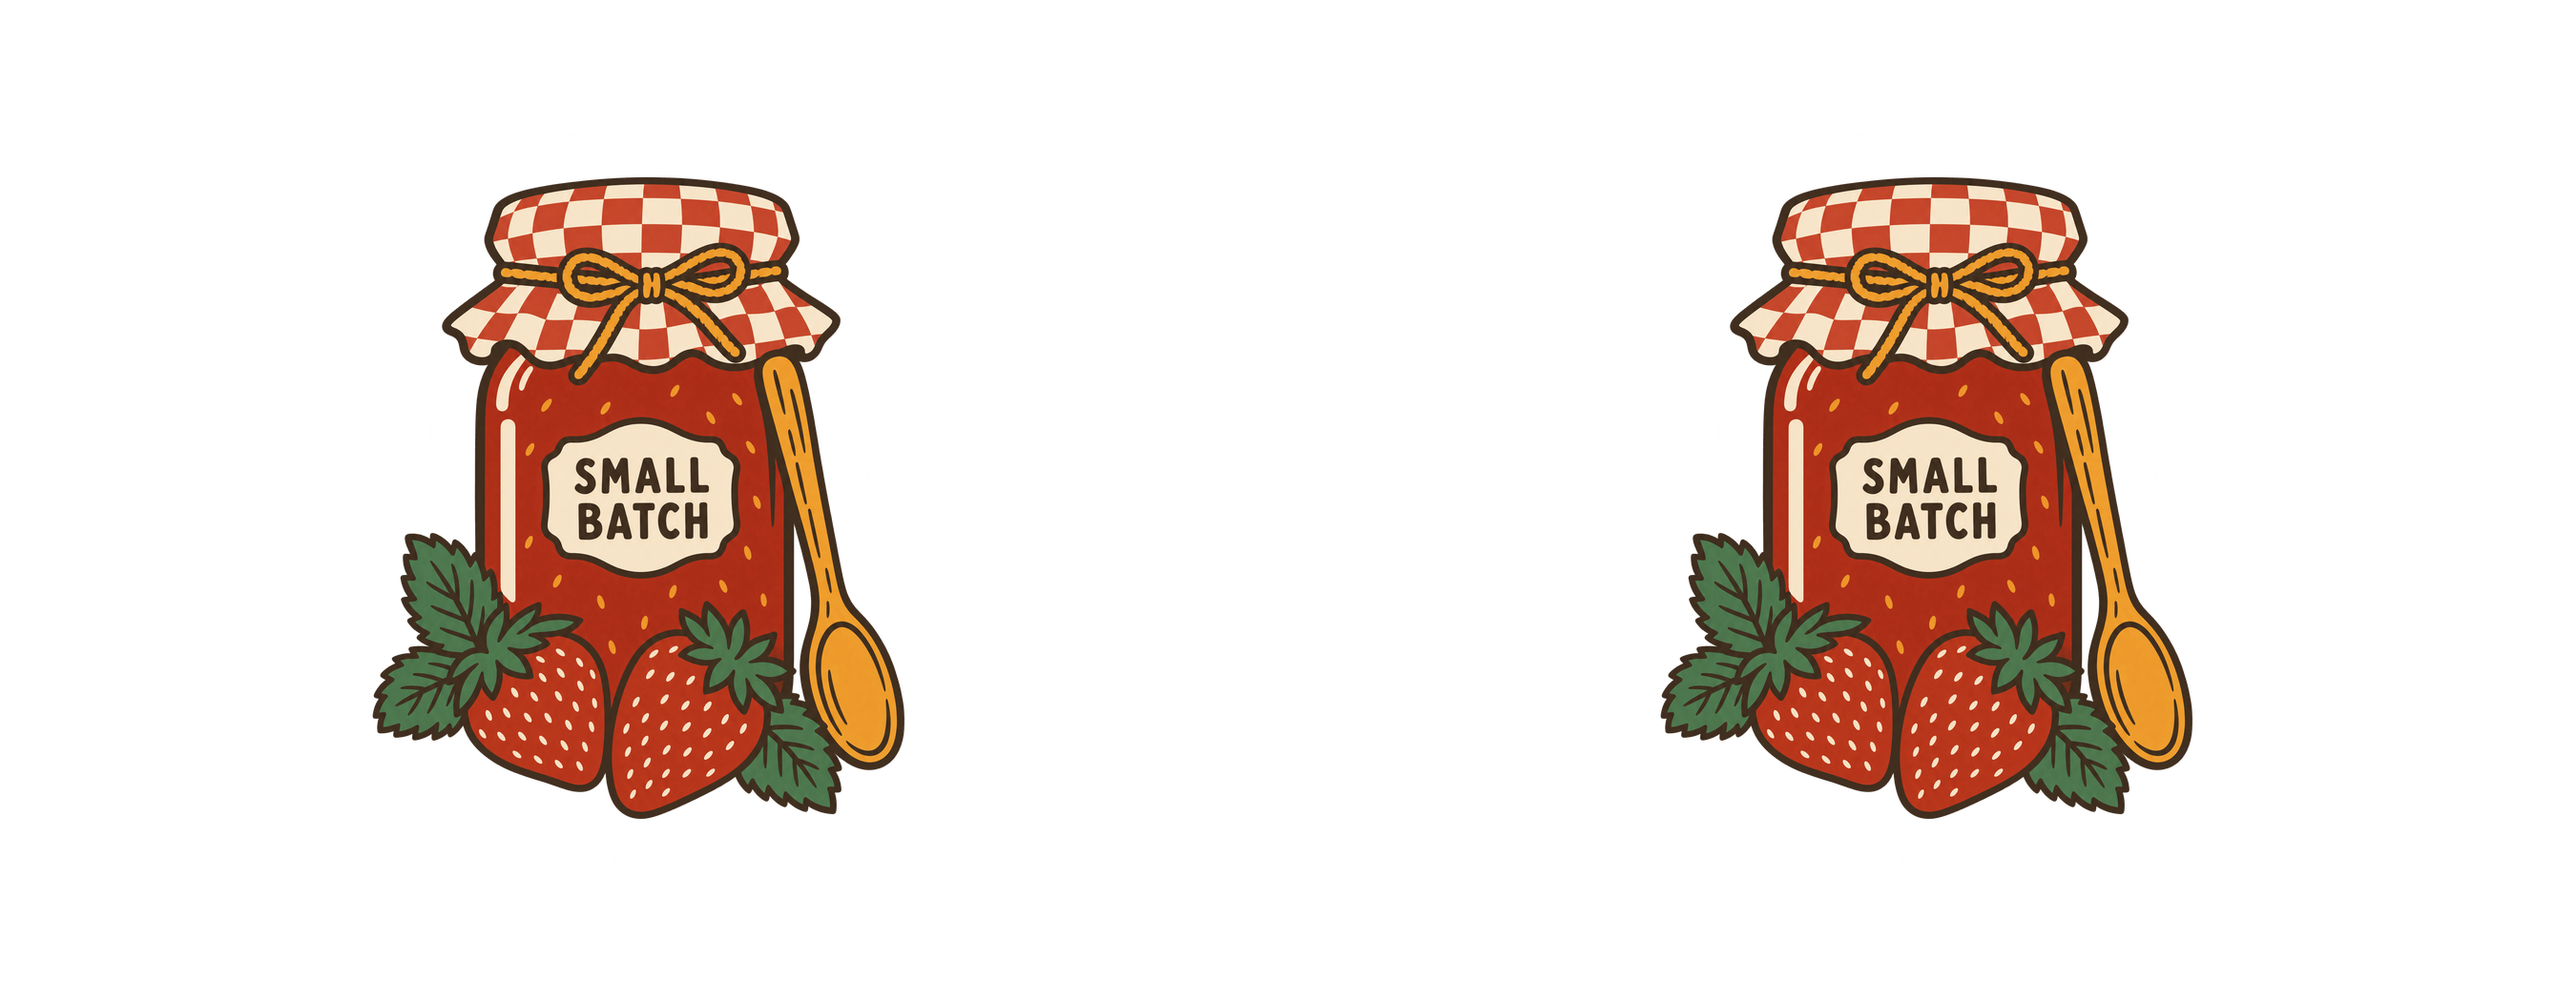
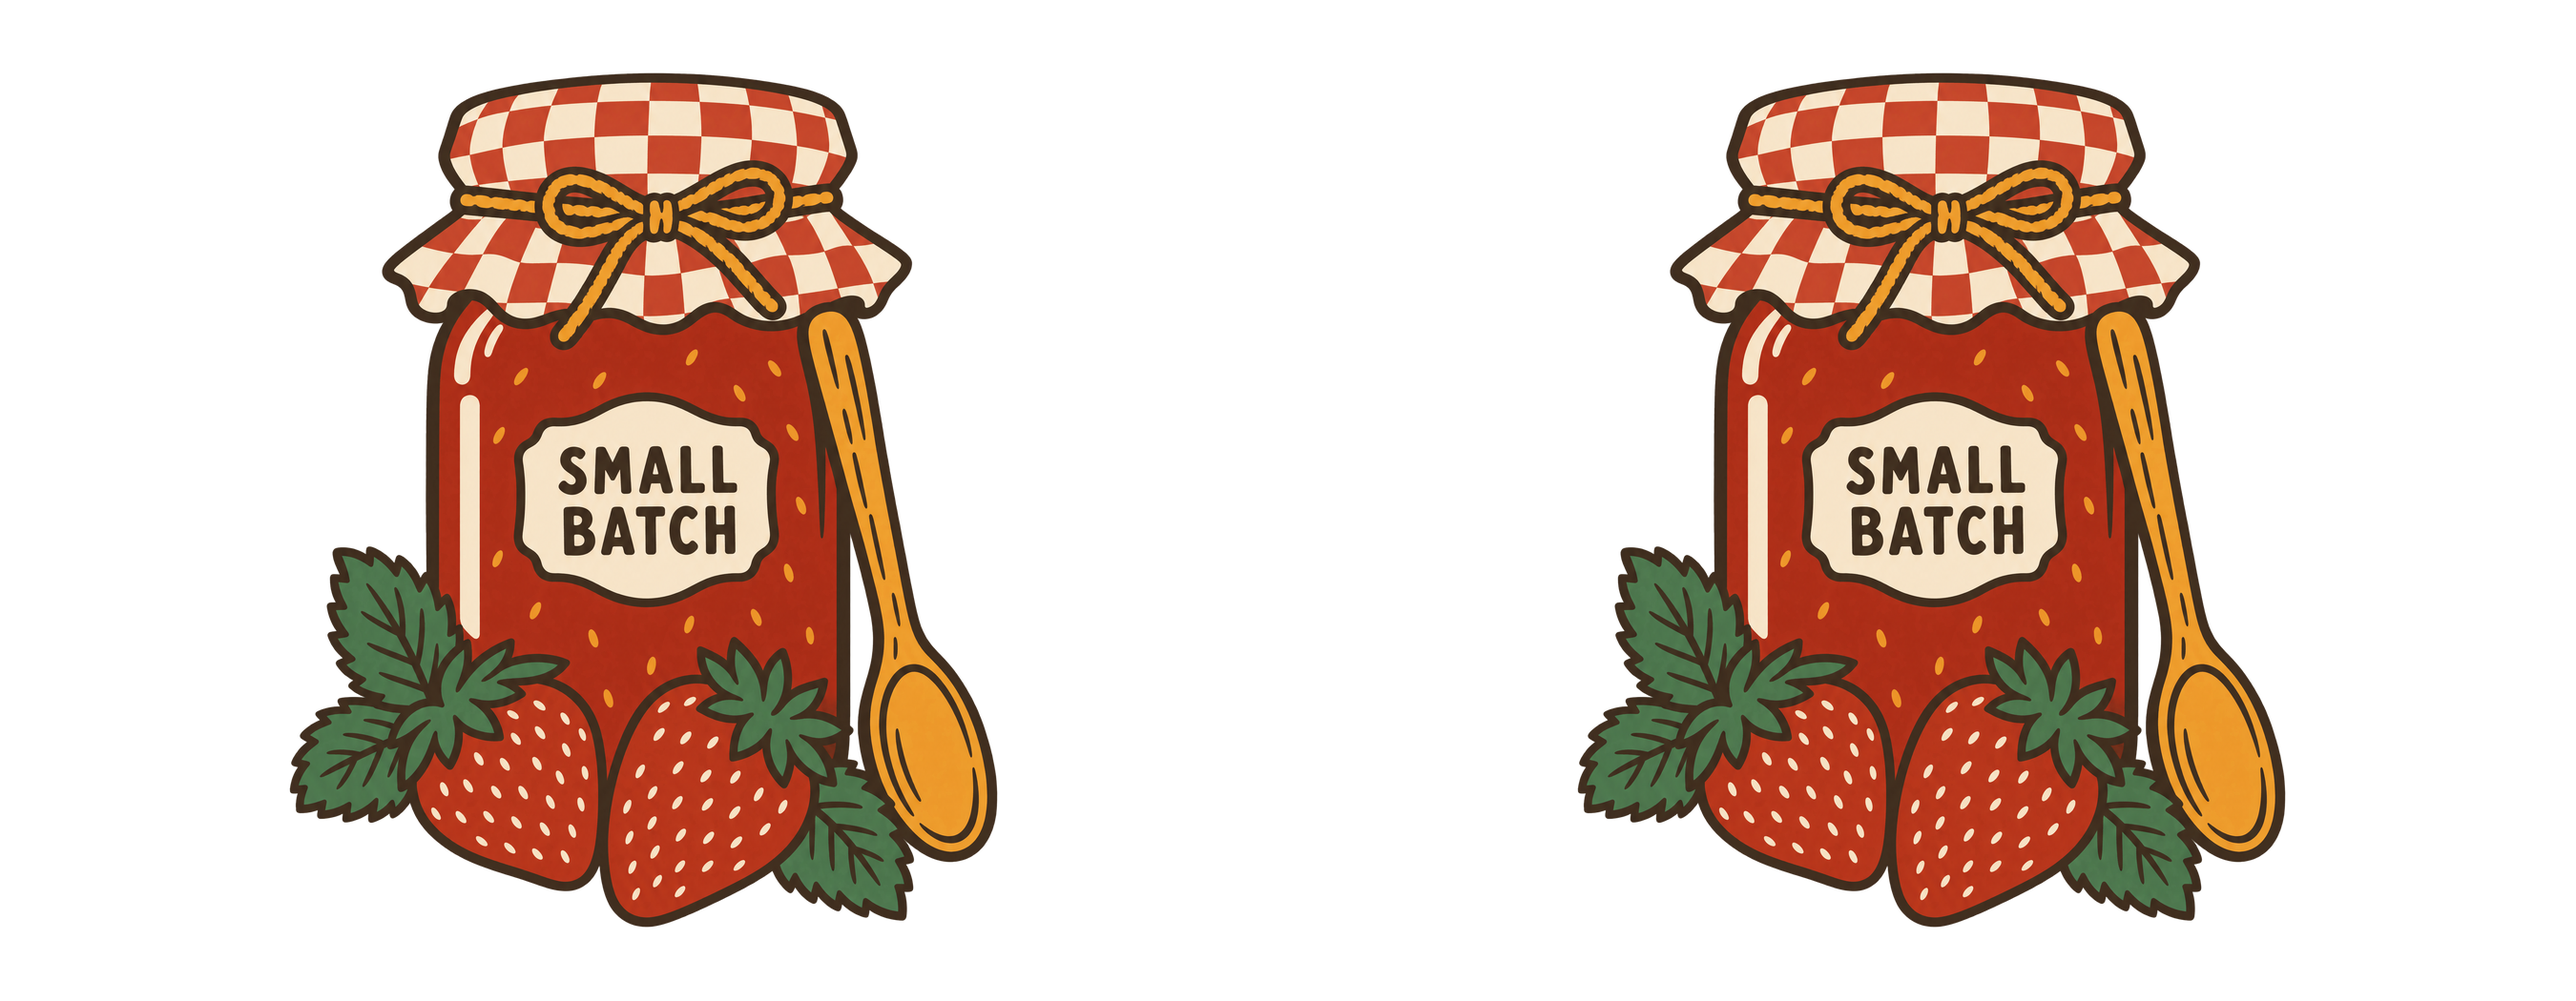
Clean background specks from illustrations; only short+narrow designs count as small; re-place approved jam jar
Claude-Session: https://claude.ai/code/session_0121RFxUytNeiW2EtXLeHfo7

Changed region(s): [[0.5911, 0.061, 0.9022, 0.9448], [0.0933, 0.061, 0.4044, 0.9448]]

diff --git a/bot/render.py b/bot/render.py
@@ -41,7 +41,8 @@ DEFAULT_LAYOUT = {"width": 0.78, "top": None, "line_gap": 1.0, "align": "center"
 # Printful's print area starts about 2.5 in below the collar and is 16 in tall.
 TOP_FULL = 0.03    # full-size designs: top edge about 3 in below the collar
 TOP_SMALL = 0.40   # small designs: top edge about 9 in below the collar (Daniel's rule)
-SMALL_WIDTH = 0.62 # narrower than about 7.5 in counts as small
+SMALL_WIDTH = 0.62 # narrower than about 7.5 in ...
+SMALL_HEIGHT = 0.35 # ... and shorter than about 5.5 in counts as small
 
 
 def layout_of(d):
@@ -117,7 +118,7 @@ def render_illustration(prompt):
         raise_for(r, "Image generation")
         b64 = r.json()["data"][0]["b64_json"]
         img = Image.open(io.BytesIO(base64.b64decode(b64))).convert("RGBA")
-        img = trim(img)
+        img = trim(clean_alpha(img))
         # Upscale toward print resolution
         if img.width < MASTER_W:
             scale = MASTER_W / img.width
@@ -126,8 +127,15 @@ def render_illustration(prompt):
     raise_for(last, "Image generation")
 
 
+def clean_alpha(img, floor=24):
+    """Remove near-invisible specks AI images leave in transparent areas; they'd print as haze."""
+    a = img.getchannel("A").point(lambda v: 0 if v <= floor else v)
+    img.putalpha(a)
+    return img
+
+
 def trim(img, pad=20):
-    bbox = img.getchannel("A").getbbox()
+    bbox = img.getchannel("A").point(lambda v: 255 if v > 24 else 0).getbbox()
     if not bbox:
         return img
     l, t, r, b = bbox
@@ -150,7 +158,7 @@ def compose_print_file(master, w, h, fit, layout=None, max_height=0.62):
         top = lay["top"]
         if top is None:   # automatic: small designs sit mid-chest, big ones start near the collar
             small_top = TOP_SMALL if max_height > 0.55 else 0.22   # hoodies: stay above the pocket
-            top = small_top if d.width < w * SMALL_WIDTH else TOP_FULL
+            top = small_top if (d.width < w * SMALL_WIDTH and d.height < h * SMALL_HEIGHT) else TOP_FULL
             top = min(top, max(0.0, (h * 0.9 - d.height) / h))
         canvas.alpha_composite(d, (x, int(h * top)))
     elif fit == "mug":        # mugs: one copy on each side, as big as fits
